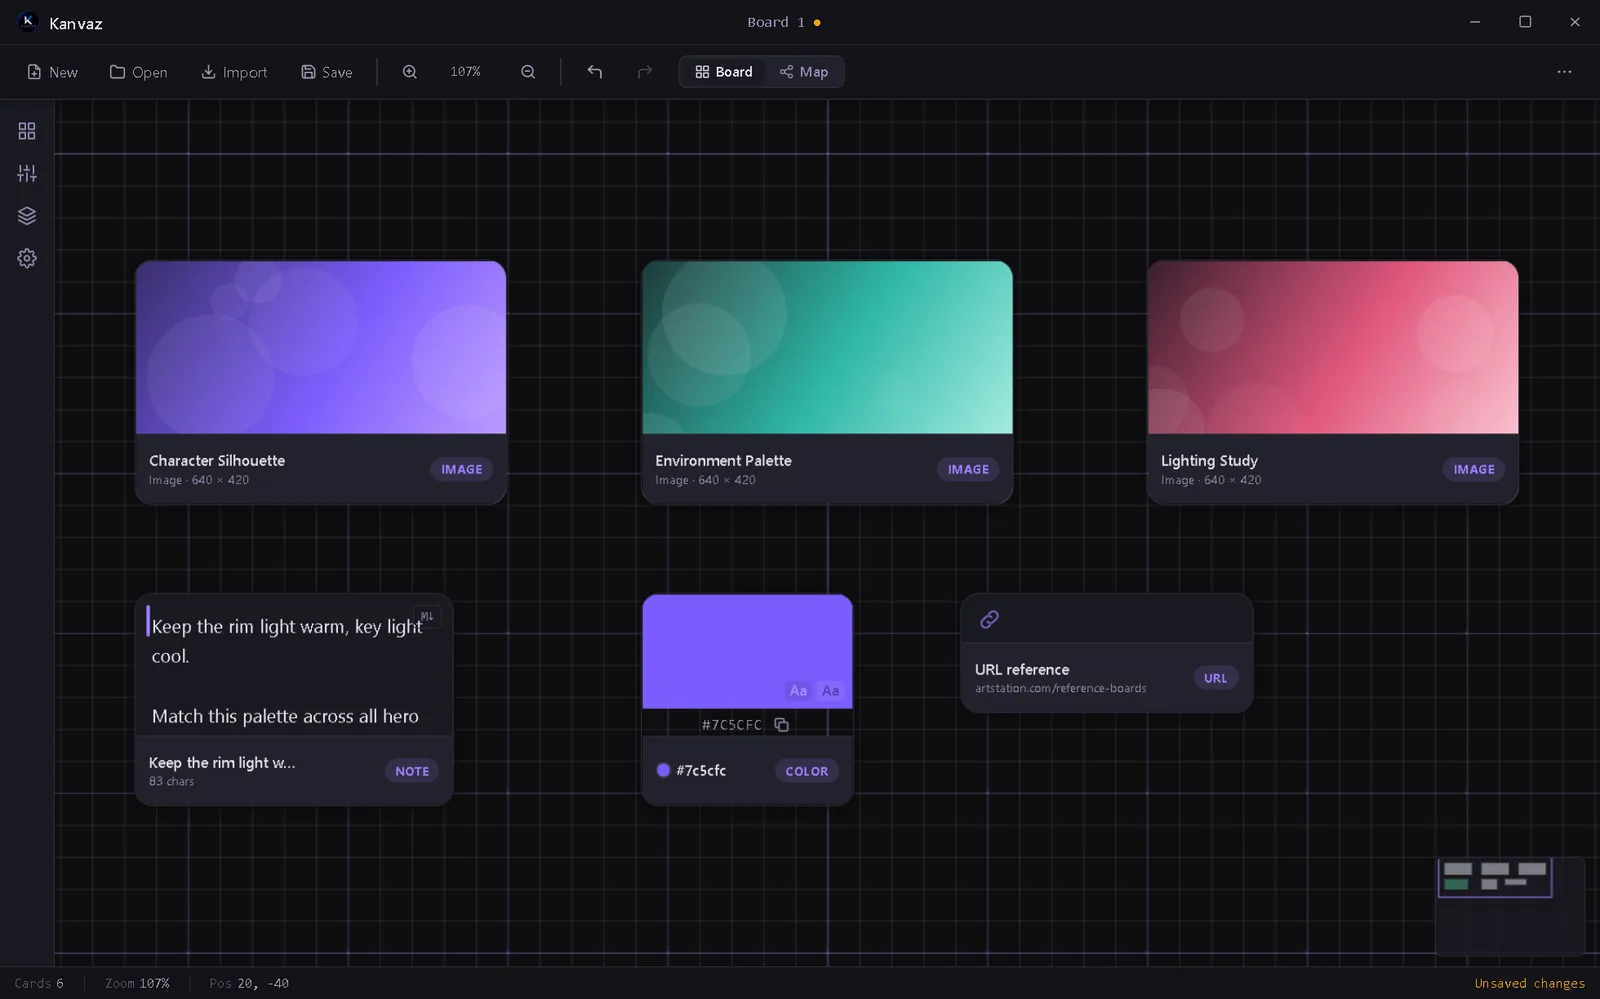
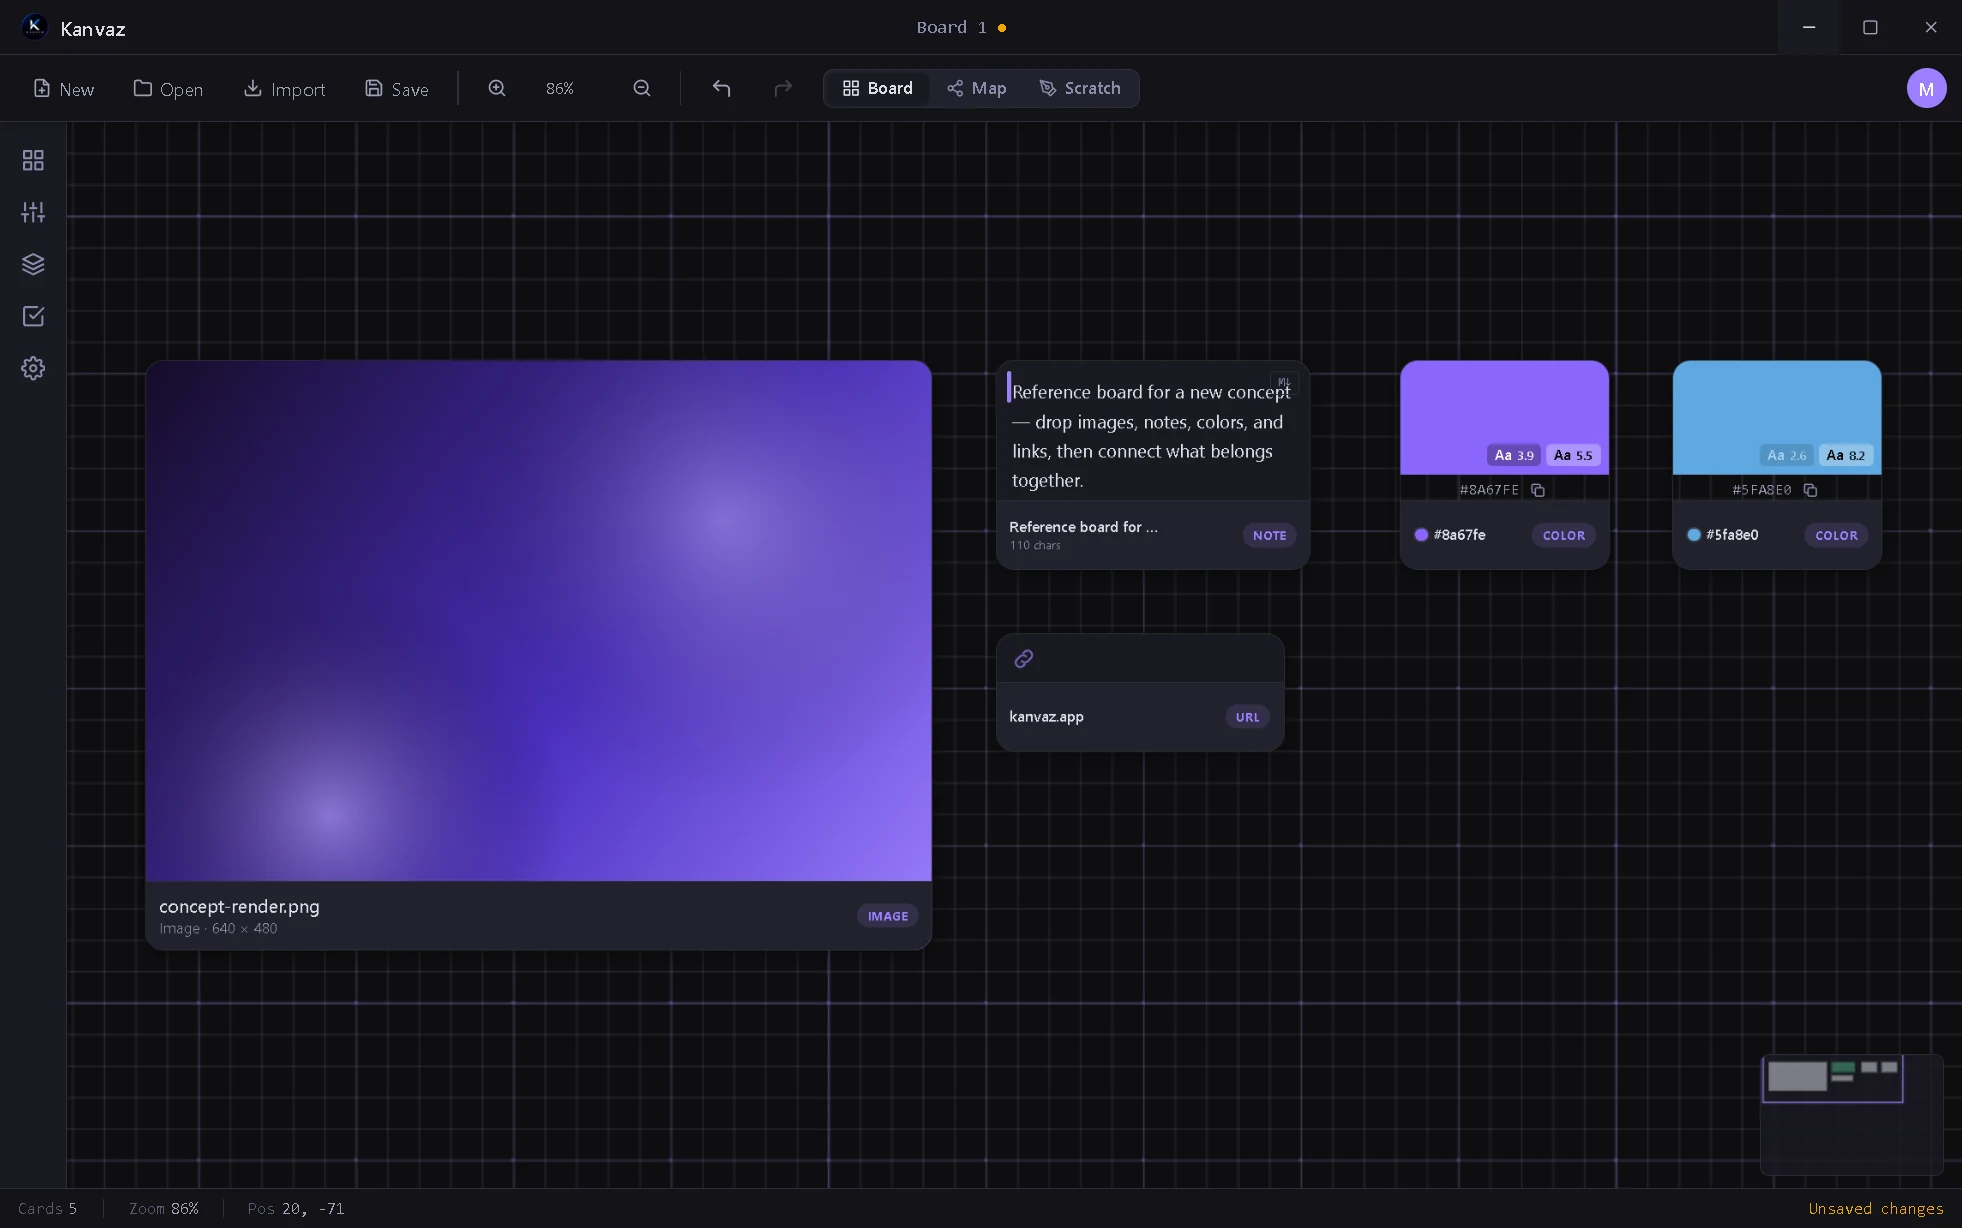
v5.45.0: Kanvaz repo sync -- v9.6.0, real current screenshots sitewide
Pulled directly from p4inz-code/kanvaz (checked 2026-09-29): 8 real
screenshots plus the README's card-creation GIF, all dated 2026-09-28,
replacing a set that had drifted as far back as a v4.2.1 About dialog.
New: Map View, Scratch Board, Task Tracker, per-card Annotate, Home
Screen, Export dialog, refreshed dark/light showcase pair.

Updated version (v9.5.0 -> v9.6.0), release count (46 across v6-v9),
and feature copy across the case study page, projects.ts, resume.astro,
and both resume export formats -- Markdown and a regenerated PDF,
re-verified at 1 page.

diff --git a/portfolio-v5/src/data/projects.ts b/portfolio-v5/src/data/projects.ts
@@ -121,8 +121,8 @@ export const PROJECTS: Project[] = [
     name: 'Kanvaz',
     tagline: 'Your canvas. Your references.',
     description:
-      'Visual reference workspace for VFX and 3D artists. Live 3D model preview (glTF, OBJ, FBX, STL, USD, and more), typed connections with a Map View, shared cards across boards, a Layers panel, and 14 board templates. Plugin system with a local-only MCP Bridge: an AI agent can read and edit the active board, off by default and undo-reversible. Windows, macOS and Linux builds. Free forever, MIT-licensed.',
-    status: { kind: 'active', label: 'Flagship · Active · v9.5.0' },
+      'Visual reference workspace for VFX and 3D artists. Live 3D model preview (glTF, OBJ, FBX, STL, USD, and more), typed connections with a Map View, a Scratch Board drawing layer, a Task Tracker, shared cards across boards, and 14 board templates. Plugin system with a local-only MCP Bridge: an AI agent can read and edit the active board, off by default and undo-reversible. Windows, macOS and Linux builds. Free forever, MIT-licensed.',
+    status: { kind: 'active', label: 'Flagship · Active · v9.6.0' },
     category: 'app',
     tags: ['Electron', 'MIT'],
     metaTags: ['Electron', 'MIT', 'Open Source'],
@@ -140,9 +140,9 @@ export const PROJECTS: Project[] = [
     stack: ['Electron', 'vanilla JS'],
     role: 'Sole engineer + designer',
     started: 'June 2026',
-    currentVersion: 'v9.5.0',
+    currentVersion: 'v9.6.0',
     nextMilestone: 'Shipping most weeks, driven by user feedback. No fixed roadmap.',
-    notes: 'Nine releases since the site last checked (v8.8.5 -> v9.5.0, Sept 2026): security/platform hardening (v9.0.0), 13 render modes plus Kanvaz Link and Open With (v9.1.0), a Blender picker and preview quality gates (v9.2.0), OBJ material support and HDR/EXR previews (v9.3.0), Krita/Clip Studio/Procreate recognition (v9.4.0), and a third board type, Scratch Board, with board-wide annotations and Illustrator-style tools (v9.5.0). The About screenshot in the case study is from an older v4.2.1 build.',
+    notes: 'Ten releases since the site last checked (v8.8.5 -> v9.6.0, Sept 2026): security/platform hardening (v9.0.0), 13 render modes plus Kanvaz Link and Open With (v9.1.0), a Blender picker and preview quality gates (v9.2.0), OBJ material support and HDR/EXR previews (v9.3.0), Krita/Clip Studio/Procreate recognition (v9.4.0), a third board type -- Scratch Board, with board-wide annotations and Illustrator-style tools (v9.5.0) -- and a second pass fixing Map View overlap, a Windows dialog-freeze bug, and BMP export (v9.6.0). Screenshots on the case study page are now the real v9.6.0 set, replacing one that had drifted as far back as v4.2.1.',
   },
   {
     slug: 'pursue-os',

diff --git a/portfolio-v5/src/data/changelog.ts b/portfolio-v5/src/data/changelog.ts
@@ -20,6 +20,15 @@ export interface ChangelogEntry {
 
 export const CHANGELOG: ChangelogEntry[] = [
   {
+    version: 'v5.45.0',
+    kind: 'released',
+    summary: 'Kanvaz repo sync: v9.5.0 -> v9.6.0, and every screenshot on the case study page replaced with the real current set (one had drifted as far back as v4.2.1).',
+    body: [
+      'Pulled directly from the live repo: 8 screenshots plus the README\'s own card-creation walkthrough GIF, all dated 2026-09-28. Out: the old Settings/Start/About/Shortcuts set, including a v4.2.1-era About dialog screenshot that had been sitting on the site for months after the app moved past it. In: Map View, Scratch Board, Task Tracker, per-card Annotate, the Home Screen, and the Export dialog, alongside a refreshed dark/light showcase pair.',
+      'Updated the version number, release count (46 across v6-v9, up from the 39 recorded before v9.x existed), and feature copy on the case study page, projects.ts, the resume page, and both resume export formats (Markdown + regenerated PDF, re-verified at 1 page).',
+    ],
+  },
+  {
     version: 'v5.44.1',
     kind: 'released',
     summary: 'The contact form\'s backend is confirmed live: a real submission now sends straight to my inbox, verified end to end.',

diff --git a/portfolio-v5/resume-source/template.html b/portfolio-v5/resume-source/template.html
@@ -187,9 +187,9 @@
         <span class="block-period">Jun 2026 – Present · Electron, MIT</span>
       </div>
       <ul class="bullets">
-        <li>Built and maintain a free, MIT-licensed reference workspace for VFX and 3D artists: live 3D model preview (glTF, OBJ, FBX, STL, USD), a typed connection graph, a Layers panel, and board templates, shipped for Windows, macOS, and Linux.</li>
+        <li>Built and maintain a free, MIT-licensed reference workspace for VFX and 3D artists: live 3D model preview (glTF, OBJ, FBX, STL, USD), a typed connection graph with a node-editor Map View, a Scratch Board drawing layer, and board templates, shipped for Windows, macOS, and Linux.</li>
         <li>Designed a local-only MCP Bridge that lets an AI agent read and edit the active board through a scoped tool set, off by default and fully undo-reversible.</li>
-        <li>Shipped six releases in about a week during the most recent update cycle (v9.5.0), all backward-compatible with the free, open-source core.</li>
+        <li>Shipped seven releases in about a week during the most recent update cycle (v9.0.0 to v9.6.0), all backward-compatible with the free, open-source core.</li>
       </ul>
     </div>
 

diff --git a/portfolio-v5/src/data/site.ts b/portfolio-v5/src/data/site.ts
@@ -18,7 +18,7 @@ export const SITE = {
   // see about.astro's timeline/identity sections for the full history.
   studio: 'P4inz Interactive Labs',
   studioFounded: '2026',
-  currentVersion: 'v5.44.1',
+  currentVersion: 'v5.45.0',
   domain: 'atharvapatil.tech',
   // Sitewide meta-keywords fallback — covers name/handle variants people
   // actually type (including the retired "painz" spelling and the

diff --git a/portfolio-v5/public/resume/Atharva_Patil_Resume.md b/portfolio-v5/public/resume/Atharva_Patil_Resume.md
@@ -33,9 +33,9 @@ Software engineer and product builder focused on desktop applications, developer
 ### Kanvaz &nbsp;·&nbsp; Visual Reference Workspace (Flagship, Free)
 *[github.com/p4inz-code/kanvaz](https://github.com/p4inz-code/kanvaz)* &nbsp;·&nbsp; Jun 2026 – Present &nbsp;·&nbsp; Electron, MIT
 
-- Built and maintain a free, MIT-licensed reference workspace for VFX and 3D artists: live 3D model preview (glTF, OBJ, FBX, STL, USD), a typed connection graph, a Layers panel, and board templates, shipped for Windows, macOS, and Linux.
+- Built and maintain a free, MIT-licensed reference workspace for VFX and 3D artists: live 3D model preview (glTF, OBJ, FBX, STL, USD), a typed connection graph with a node-editor Map View, a Scratch Board drawing layer, and board templates, shipped for Windows, macOS, and Linux.
 - Designed a local-only MCP Bridge that lets an AI agent read and edit the active board through a scoped tool set, off by default and fully undo-reversible.
-- Shipped six releases in about a week during the most recent update cycle (v9.5.0), all backward-compatible with the free, open-source core.
+- Shipped seven releases in about a week during the most recent update cycle (v9.0.0 to v9.6.0), all backward-compatible with the free, open-source core.
 
 ### Nexus &nbsp;·&nbsp; Encrypted Personal Vault
 *[github.com/p4inz-code/nexus-desktop](https://github.com/p4inz-code/nexus-desktop)* &nbsp;·&nbsp; Mar 2026 – Present &nbsp;·&nbsp; Windows Desktop
